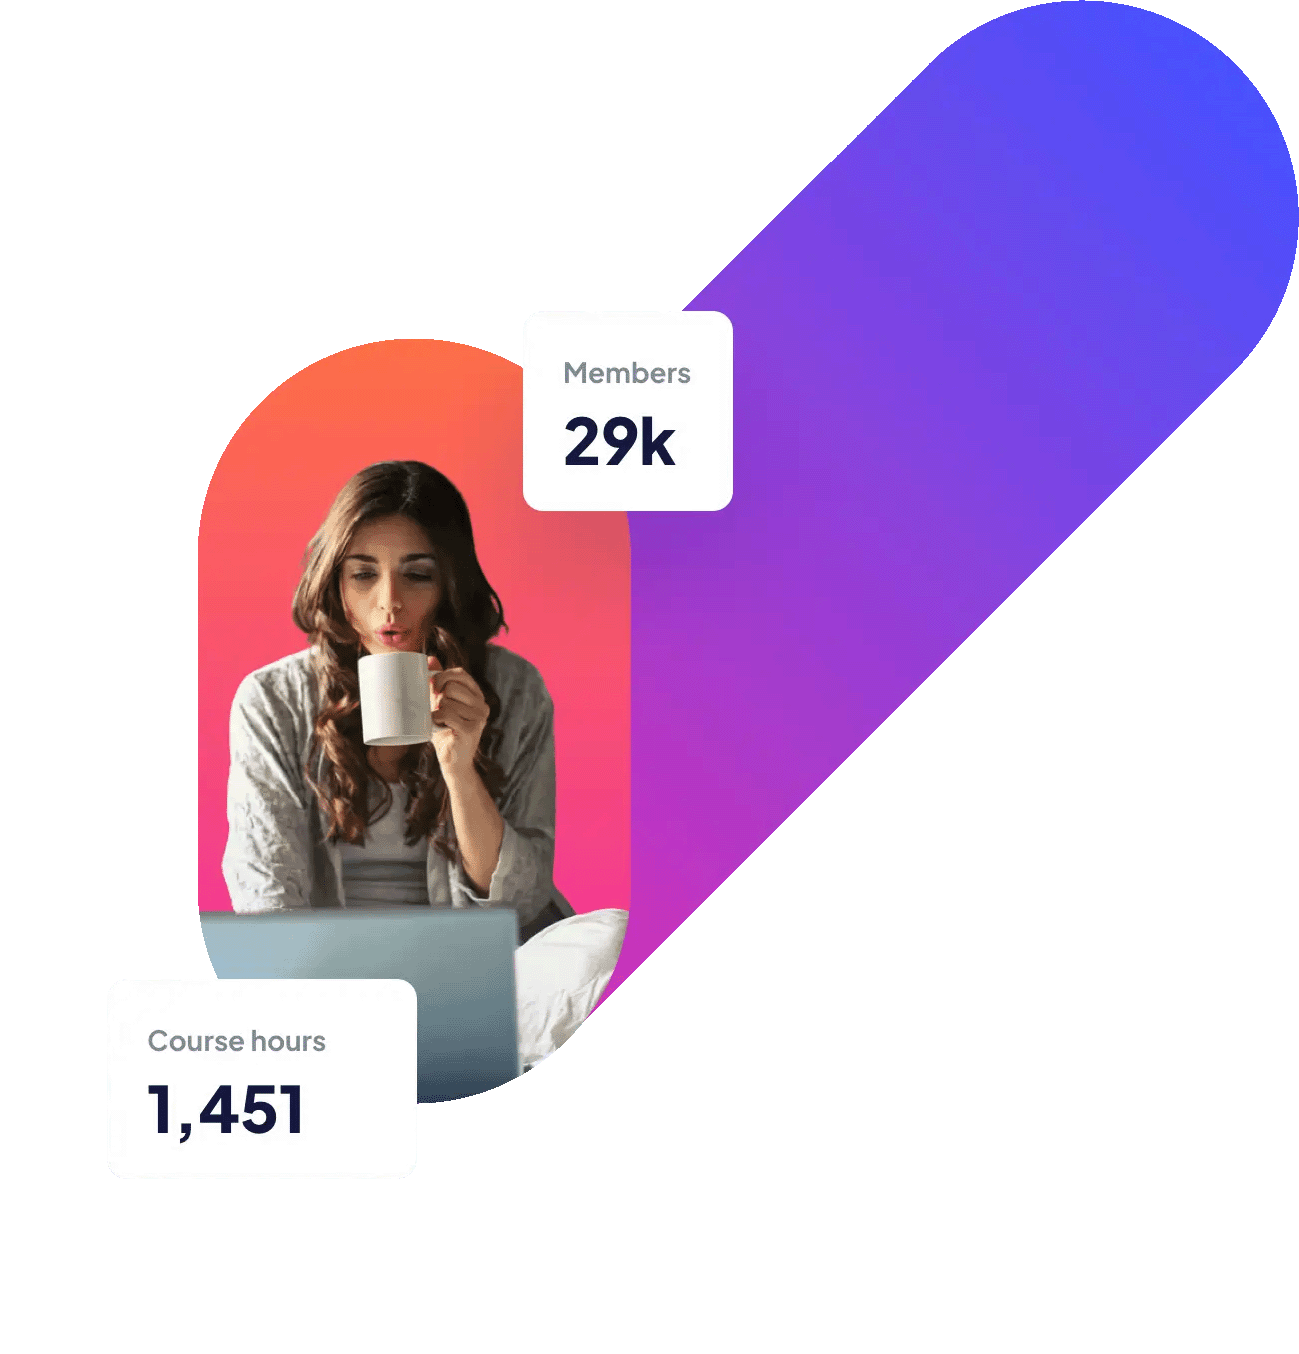
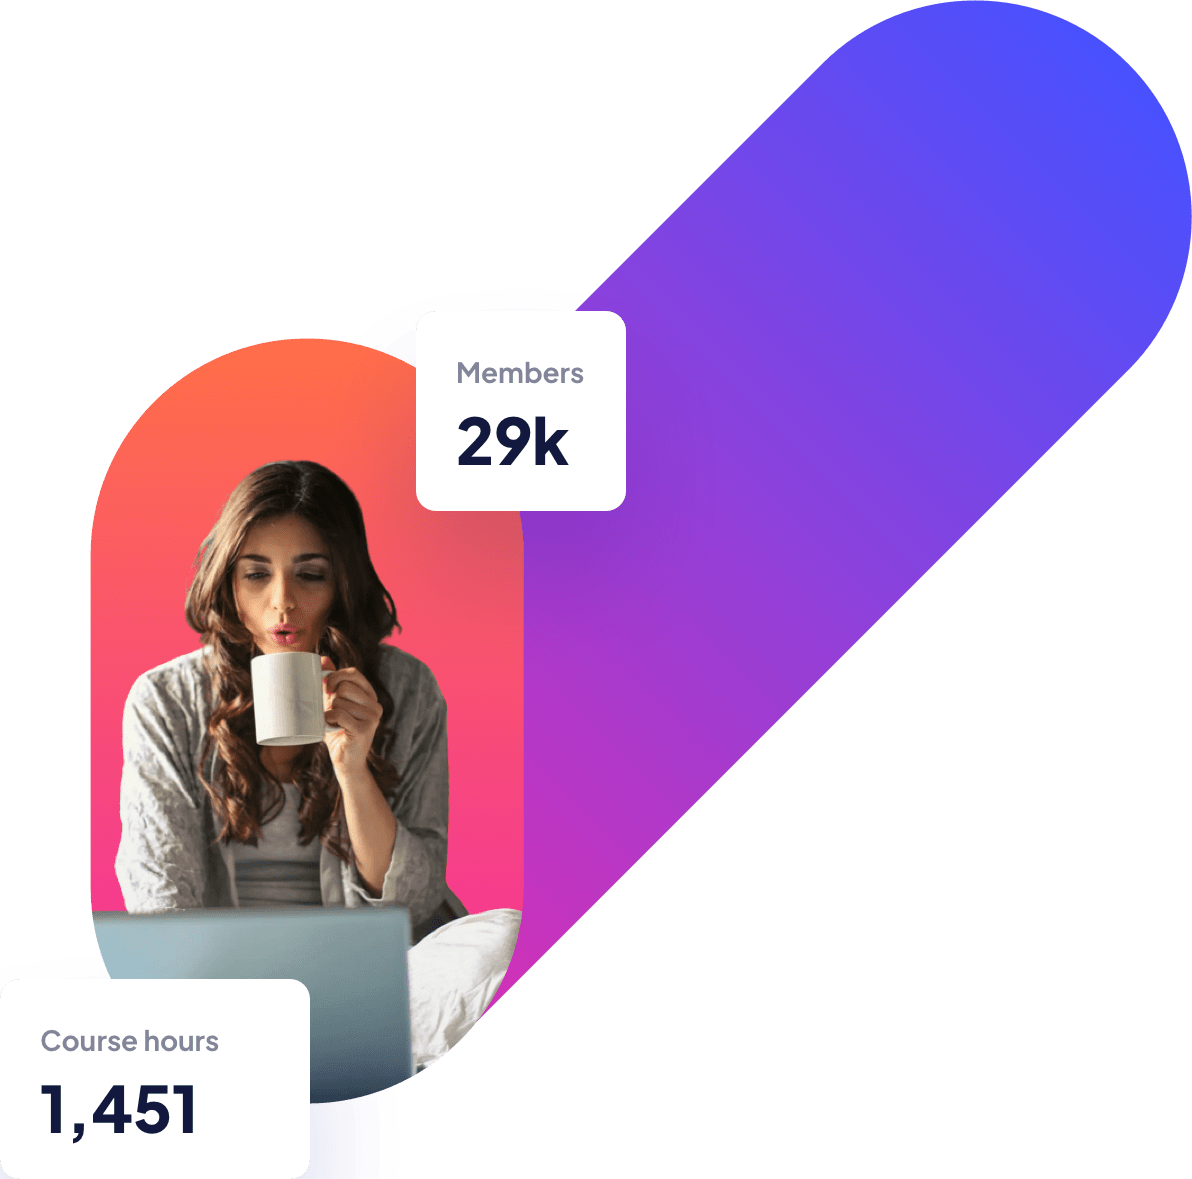
CSS modified. Hero image responsive

diff --git a/index.css b/index.css
@@ -29,12 +29,10 @@ body {
 }
 
 header {
-  width: 91.467vw;
   display: flex;
   justify-content: space-between;
-  position: relative;
-  left: 4.267vw;
-  top: 1.6rem;
+  margin: 0 4.267vw;
+  padding-top: 4.267vw;
 }
 
 .hero_header-logo {
@@ -77,7 +75,7 @@ header {
   height: 76vw;
   position: relative;
   left: 4.267vw;
-  top: 5.4rem;
+  margin-top: 5.4rem;
 }
 
 .hero_text h1 {
@@ -108,10 +106,17 @@ header {
   font-weight: bold;
 }
 
+.hero_img img {
+  width: 91.467vw;
+  position: relative;
+  left: 4.267vw;
+  margin-top: 12.267vw;
+}
+
 @media screen and (min-width: 768px) {
   header {
-    width: 89.714vw;
-    left: 5.078vw;
+    margin: 0 5.078vw;
+    padding-top: 3.125vw;
   }
 
   .hero_header-logo {
@@ -126,10 +131,15 @@ header {
     font-size: 2.083vw;
   }
 
+  .hero {
+    display: flex;
+    overflow-x: clip;
+  }
+
   .hero_text {
     width: 51.823vw;
     height: 36.979vw;
-    top: 12.3rem;
+    margin-top: 12.3rem;
   }
 
   .hero_text h1 {
@@ -150,13 +160,18 @@ header {
   .hero_text button a {
     font-size: 2.083vw;
   }
+
+  .hero_img img {
+    width: 83.426vw;
+    margin-top: -12.903vw;
+    left: 1.2rem;
+  }
 }
 
 @media screen and (min-width: 1024px) {
   header {
-    width: 77.028vw;
-    left: 11.513vw;
-    top: 1.667vw;
+    margin: 0 11.458vw;
+    padding-top: 1.667vw;
   }
 
   .hero_header-logo {
@@ -176,7 +191,7 @@ header {
     width: 31.736vw;
     height: 24.931vw;
     left: 11.513vw;
-    top: 17.5vw;
+    margin-top: 13.55vw;
   }
 
   .hero_text h1 {
@@ -196,5 +211,10 @@ header {
 
   .hero_text button a {
     font-size: 1.25vw;
+  }
+
+  .hero_img img {
+    width: 68.863vw;
+    left: 18.652vw;
   }
 }

diff --git a/index.html b/index.html
@@ -24,18 +24,18 @@
 
   <body>
     <main>
+      <header>
+        <article class="hero_header-logo">
+          <img
+            src="./starter-code/assets/logo-dark.svg"
+            alt="skilled logo dark"
+          />
+        </article>
+        <button class="hero_header-button">
+          <a href="#">Get Started</a>
+        </button>
+      </header>
       <section class="hero">
-        <header>
-          <article class="hero_header-logo">
-            <img
-              src="./starter-code/assets/logo-dark.svg"
-              alt="skilled logo dark"
-            />
-          </article>
-          <button class="hero_header-button">
-            <a href="#">Get Started</a>
-          </button>
-        </header>
         <article class="hero_text">
           <h1>Maximize skill, minimize budget</h1>
           <p>
@@ -46,7 +46,7 @@
             <a href="#">Get Started</a>
           </button>
         </article>
-        <!-- <picture class="hero_img">
+        <picture class="hero_img">
           <source
             media="(max-width: 425px)"
             srcset="starter-code/assets/image-hero-mobile@2x.png"
@@ -63,7 +63,7 @@
             src="./starter-code/assets/image-hero-desktop@2x.png"
             alt="woman drinking coffee and learning from her laptop"
           />
-        </picture> -->
+        </picture>
       </section>
       <!-- <section class="features">
         <article class="features_banner">
